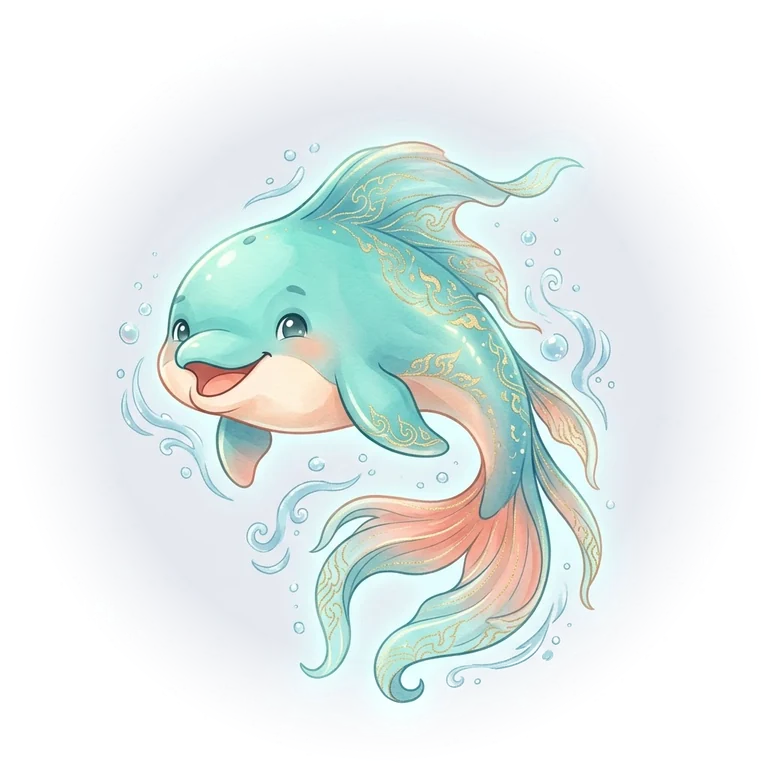
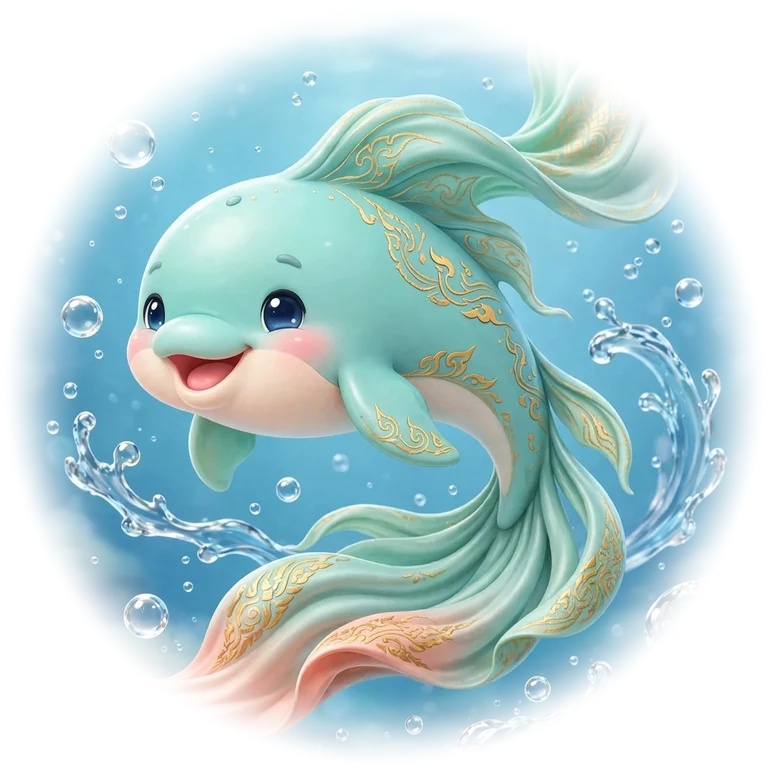
jairu: replace 8 spirit animals with plush 3D renders, bump art/cache versions
Claude-Session: https://claude.ai/code/session_01NS5K6A5BUBzCccWng5u4BH

diff --git a/apps/jairu/sw.js b/apps/jairu/sw.js
@@ -1,6 +1,6 @@
-const CACHE = "arstinla-jairu-v1";
-const CORE = ["./", "./manifest.webmanifest", "./spirit.js?v=3", "../shared/pwa-install.css", "../shared/pwa-install.js", "../shared/arstinla-member.js",
-  "./art/stage0.webp?v=1", "./art/stage1.webp?v=1", "./icons/icon-192.png"];
+const CACHE = "arstinla-jairu-v2";
+const CORE = ["./", "./manifest.webmanifest", "./spirit.js?v=4", "../shared/pwa-install.css", "../shared/pwa-install.js", "../shared/arstinla-member.js",
+  "./art/stage0.webp?v=2", "./art/stage1.webp?v=2", "./icons/icon-192.png"];
 
 self.addEventListener("install", (event) => {
   event.waitUntil(caches.open(CACHE).then((cache) => cache.addAll(CORE)).catch(() => {}));

diff --git a/apps/jairu/index.html b/apps/jairu/index.html
@@ -150,7 +150,7 @@ blockquote{margin:4px 0 14px;padding:4px 0 4px 14px;border-left:3px solid var(--
 <script src="/apps/shared/arstinla-member.js"></script>
 <script src="../shared/pwa-install.js" defer></script>
 <script>addEventListener('DOMContentLoaded',()=>{const b=document.querySelector('.arstinla-pwa-install'); if(b) b.textContent='ติดตั้งใจรู้ลงมือถือ';});</script>
-<script src="spirit.js?v=3"></script>
+<script src="spirit.js?v=4"></script>
 <script>
 /* ===== ตั้งค่า ===== */
 const APP_ID = 'jairu';

diff --git a/apps/jairu/spirit.js b/apps/jairu/spirit.js
@@ -90,7 +90,7 @@ function pal(h, flat){ // flat = literal colours for export
 }
 
 /* ---------- ภาพ ---------- */
-const ART_V = 1;
+const ART_V = 2;
 const artUrl = key => `art/${key}.webp?v=${ART_V}`;
 const artImg = (key, size) => `<image href="${artUrl(key)}" x="${-size/2}" y="${-size/2}" width="${size}" height="${size}" preserveAspectRatio="xMidYMid meet"/>`;
 function eyes(x, y, r, p){
